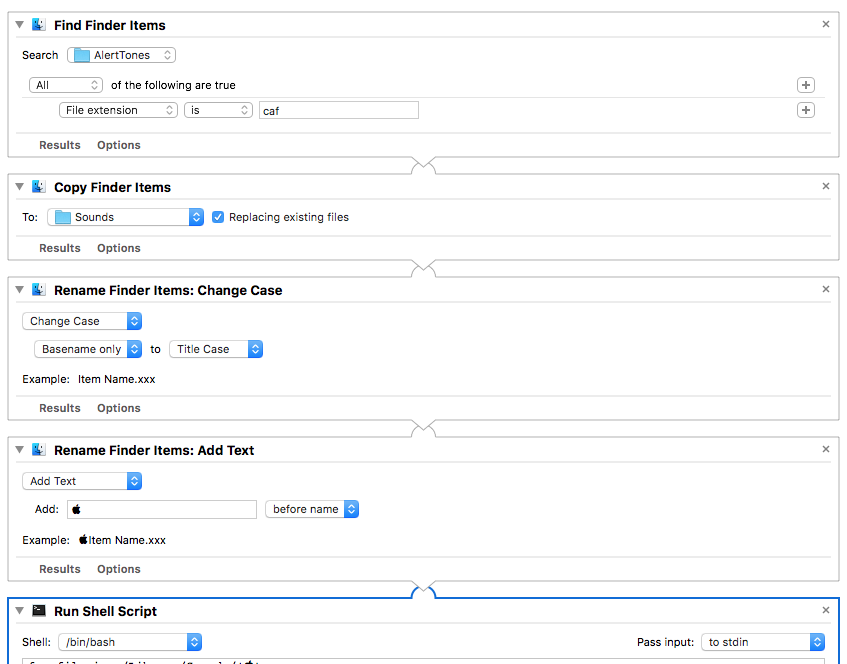
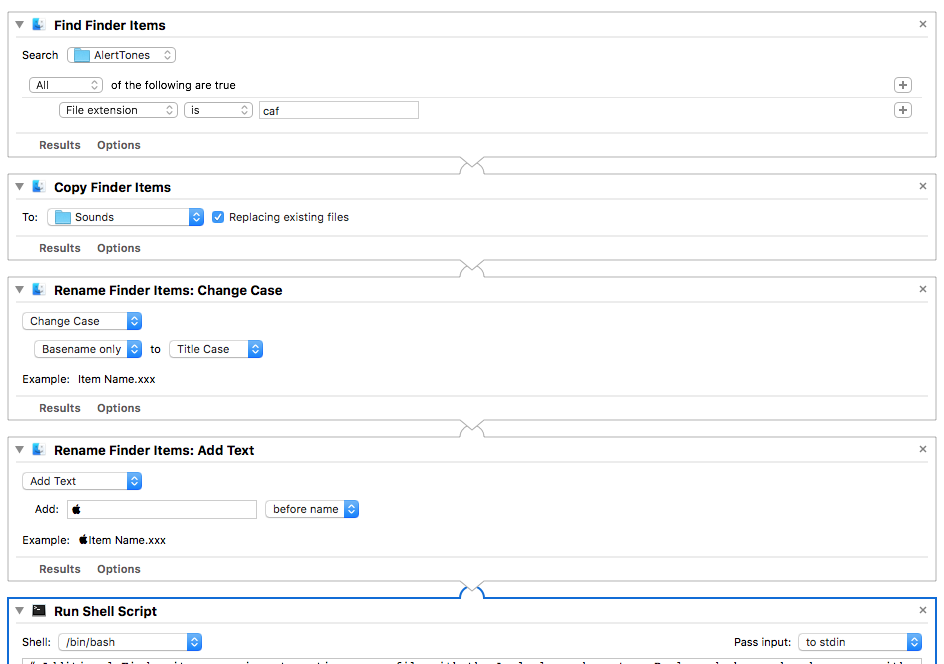
added comment to AlertTones shell script action
Comment in AlertTones shell script action now clarifies what action is
performed on the target files.

diff --git a/add-alerttones-to-user-sound-library/README.MD b/add-alerttones-to-user-sound-library/README.MD
@@ -4,11 +4,11 @@
 
 This macOS Automator workflow copies the audio files (all files with .caf extension) from `/System/Library/PrivateFrameworks/ToneLibrary.framework/Versions/A/Resources/AlertTones/` to `~/Library/Sounds`, then reformats their names for easier legibility when selecting sounds in *System Preferences > Sounds*.
 
-Inspired by a [Six Colors post from Jason Snell lamenting the staleness of macOS' default system sounds](https://sixcolors.com/post/2016/10/wish-list-new-mac-alert-sounds/ "Six Colors - Wish List: New Mac Alert Sounds"). He brought the existence of the AlertTones to my attention, and I figured others might want a method of using these files alongside the classic sounds.
+Inspired by a [Six Colors post from Jason Snell lamenting the staleness of macOS' default system sounds](https://sixcolors.com/post/2016/10/wish-list-new-mac-alert-sounds/ "Six Colors - Wish List: New Mac Alert Sounds"). He brought the existence of the AlertTones folder to my attention, and I figured others might want a method of using these files alongside the classic sounds.
 
 ## Instructions
 
-Open the .workflow file in Automator to run this on your Mac. Typically it would only need to be run once, but you could save it as an application or service if you want to access it regularly for some reason (it should overwrite any files it's previously copied over).
+Open the .workflow file in Automator to run this on your Mac. Typically it would only need to be run once, but you could save it as an application or service if you want to access it regularly for some reason (it should overwrite any files it's previously copied over as long as Apple hasn't changed their names).
 
 ## Automator Workflow Breakdown
 
@@ -36,6 +36,7 @@ Since GitHub can't display Automator workflows in an easy-to-read format, here's
 ### Run Shell Script
 ~~~~
 #!/bin/bash
+# Additional Finder item renaming, targeting every file with the Apple logo character. Replace dashes and underscores with spaces, capitalize 'SMS', add a space before series numbers. Remove Apple logo upon completion.
 
 for file in ~/Library/Sounds/**
 	do
